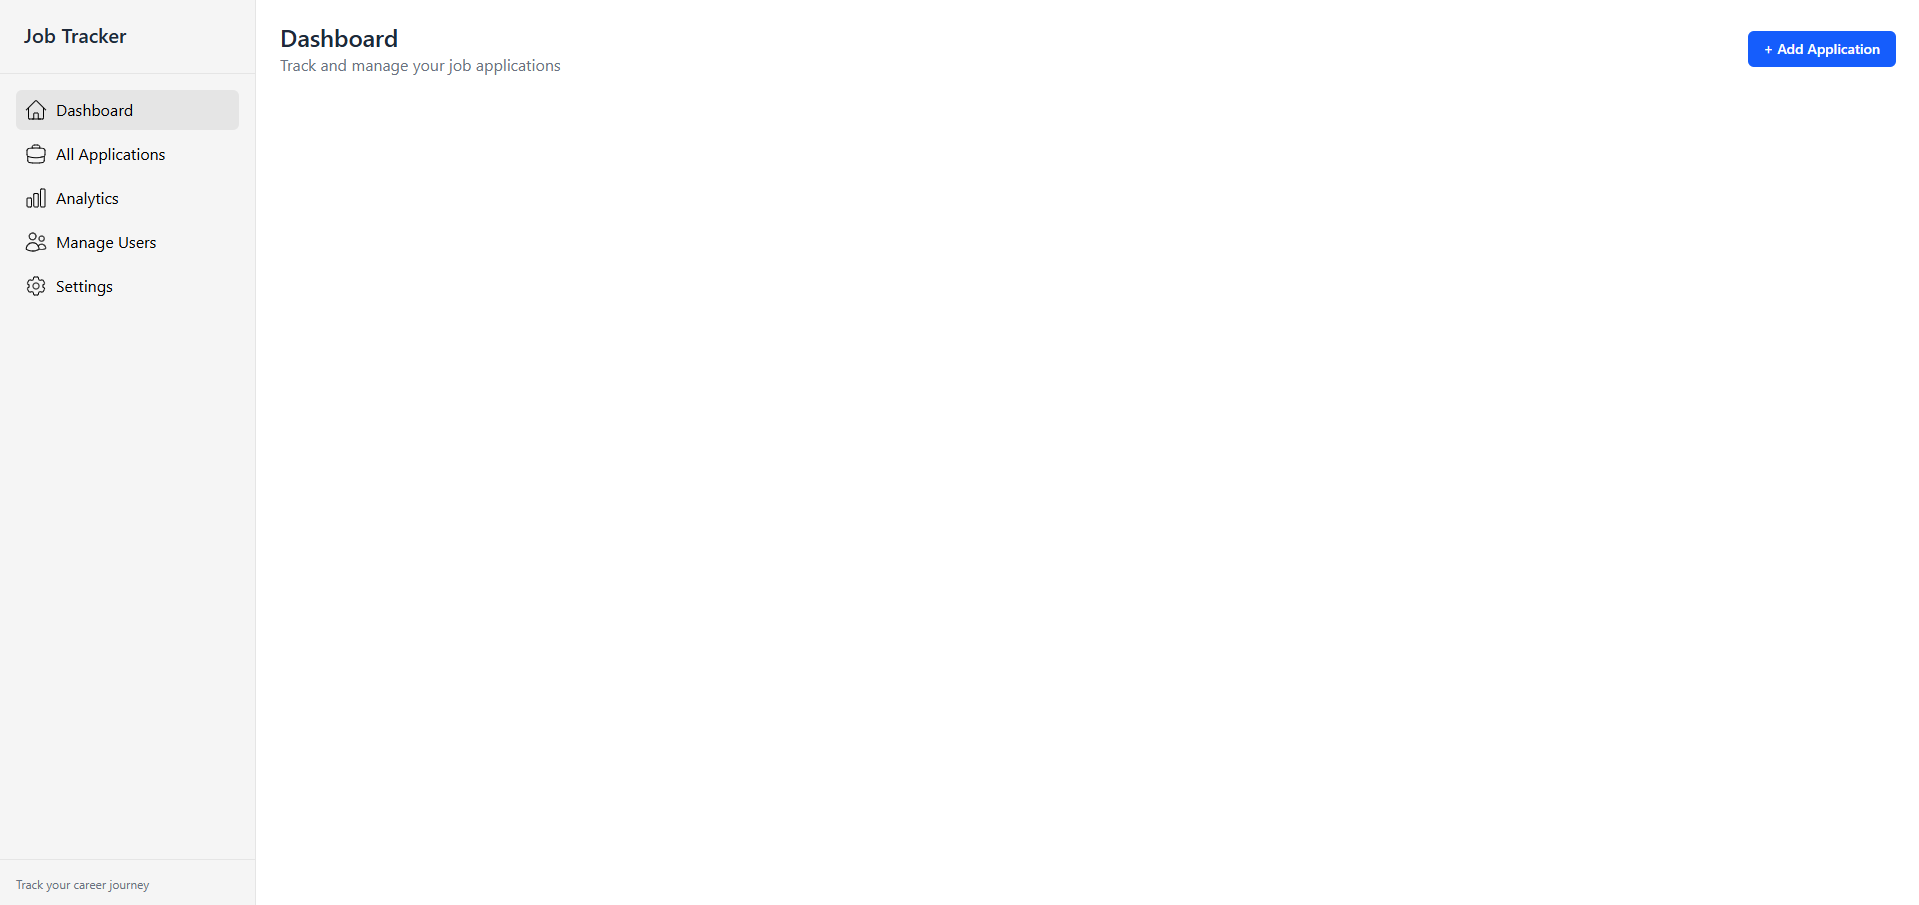
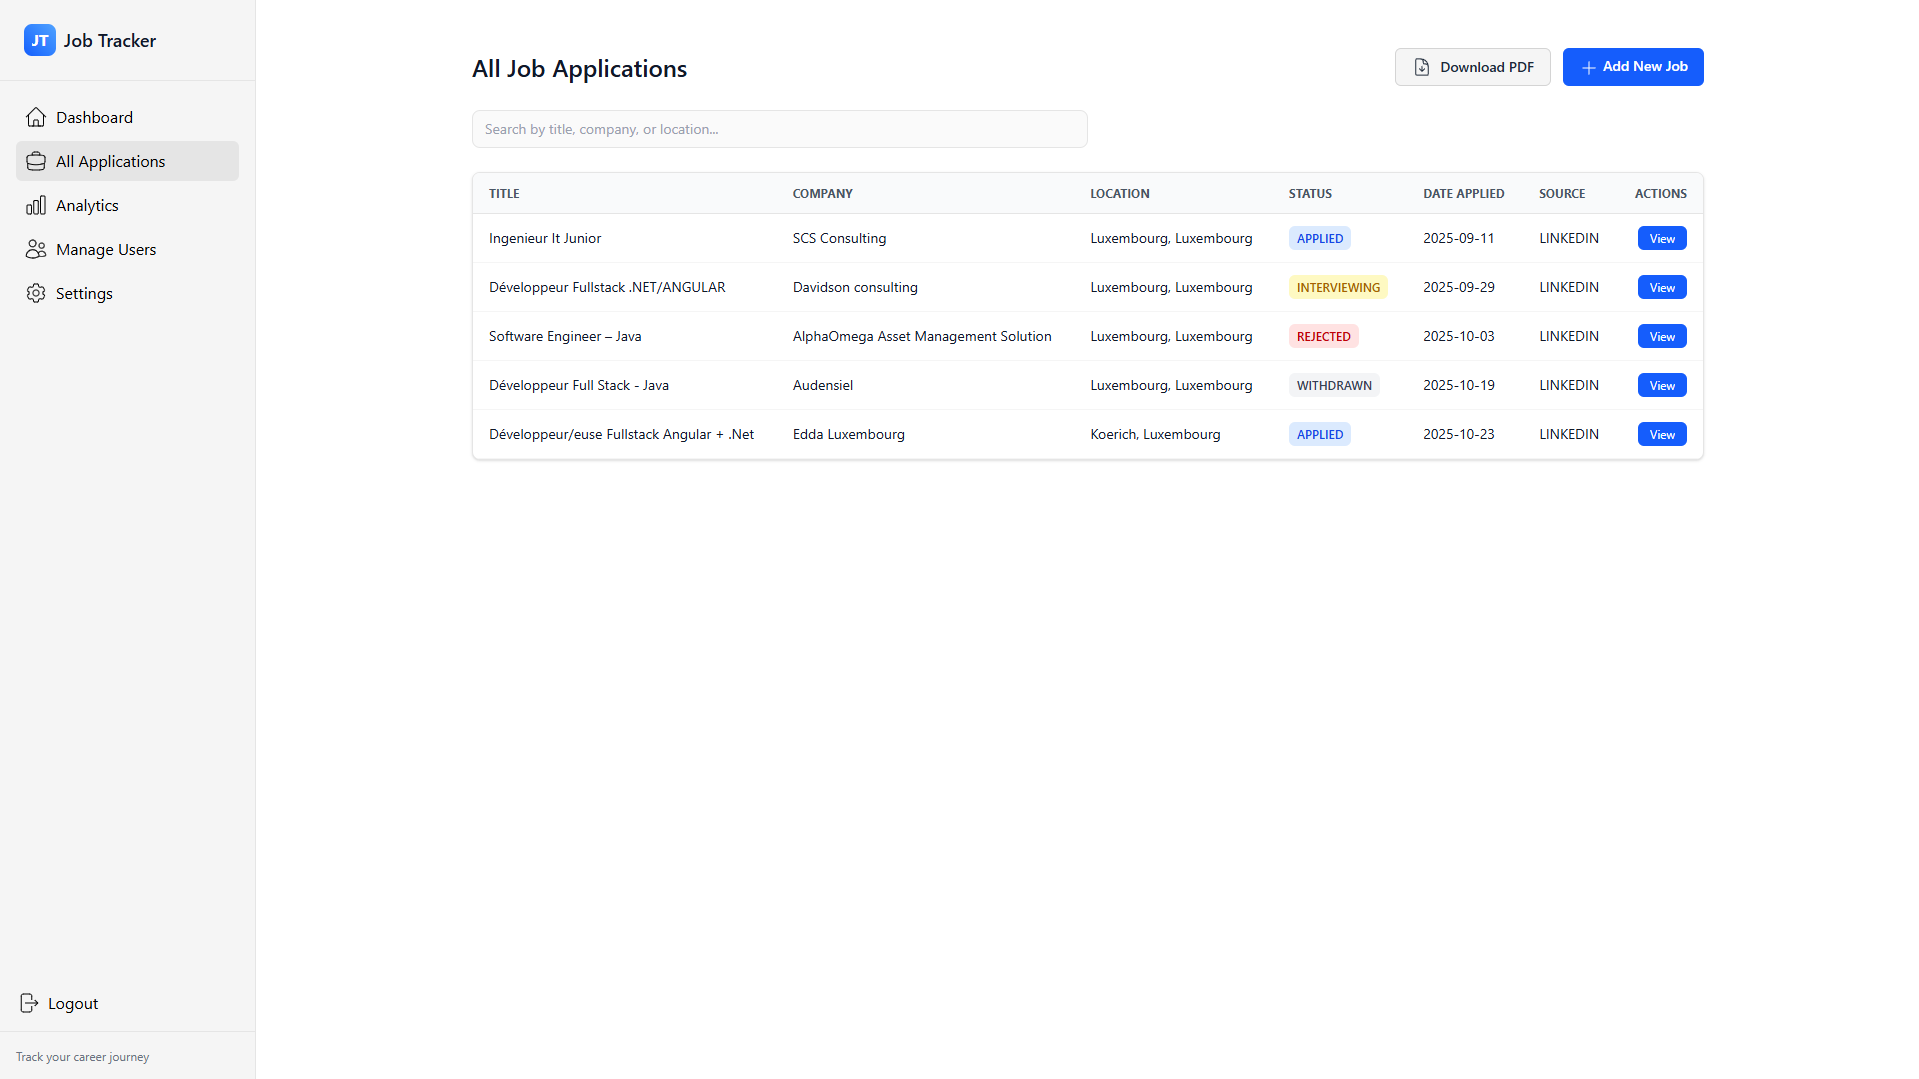
Enhance UI design for sidebar, homepage, and job list.

diff --git a/job-tracker-ui/src/app/features/public/pages/home/home.html b/job-tracker-ui/src/app/features/public/pages/home/home.html
@@ -1,93 +1,170 @@
 <!-- Navbar -->
-<header class="w-full py-4 px-6 flex justify-between items-center bg-white shadow-sm fixed top-0 left-0 z-50">
-  <div class="flex items-center gap-2">
-    <span class="text-lg font-semibold text-gray-900">Job Tracker</span>
-  </div>
+<header
+  class="fixed top-0 left-0 w-full backdrop-blur-md bg-white/70 border-b border-neutral-200 z-50"
+>
+  <div class="max-w-7xl mx-auto flex justify-between items-center py-4 px-6">
+    <div class="flex items-center gap-2">
+      <div
+        class="w-8 h-8 rounded-lg bg-gradient-to-tr from-blue-600 to-blue-400 flex items-center justify-center text-white font-bold"
+      >
+        JT
+      </div>
+      <span class="text-lg font-semibold text-gray-900">Job Tracker</span>
+    </div>
 
-  <button
-    [routerLink]="['/auth/login']"
-    class="px-4 py-2 bg-blue-600 text-white text-sm rounded-md hover:bg-blue-700 transition cursor-pointer"
-  >
-    Login / Signup
-  </button>
+    <button
+      [routerLink]="['/auth/login']"
+      class="px-4 py-2 bg-blue-600 text-white text-sm rounded-md shadow-sm hover:shadow-md hover:bg-blue-700 transition cursor-pointer"
+    >
+      Login / Signup
+    </button>
+  </div>
 </header>
 
 <!-- Hero Section -->
 <section
-  class="min-h-screen flex flex-col items-center justify-center text-center px-6 bg-gradient-to-b from-neutral-50 to-white pt-24"
+  class="min-h-screen flex flex-col items-center justify-center text-center px-6 relative overflow-hidden bg-gradient-to-br from-blue-50 via-white to-white pt-24"
 >
-  <div class="max-w-4xl">
-    <h1 class="text-4xl md:text-5xl font-bold mb-6 text-gray-900">
-      Simplify Your Job Search with <span class="text-blue-600">Job Tracker</span>
+  <!-- Animated background shapes -->
+  <div
+    class="absolute inset-0 -z-10 opacity-40 blur-3xl bg-[radial-gradient(circle_at_20%_20%,_rgba(37,99,235,0.3)_0%,_transparent_50%)]"
+  ></div>
+  <div
+    class="absolute inset-0 -z-10 opacity-30 blur-3xl bg-[radial-gradient(circle_at_80%_80%,_rgba(99,102,241,0.3)_0%,_transparent_50%)]"
+  ></div>
+
+  <div class="max-w-4xl fade-in-up">
+    <h1
+      class="text-5xl md:text-6xl font-bold mb-6 text-gray-900 leading-tight tracking-tight"
+    >
+      Streamline Your Job Search with
+      <span
+        class="bg-gradient-to-r from-blue-600 to-blue-400 bg-clip-text text-transparent"
+      >Job Tracker</span
+      >
     </h1>
-    <p class="text-gray-600 text-lg md:text-xl mb-8">
-      Keep all your job applications organized, track progress, and manage recruiter details — all in one easy-to-use
-      dashboard.
+    <p class="text-gray-600 text-lg md:text-xl mb-8 max-w-2xl mx-auto">
+      Manage your applications, monitor progress, and stay organized —
+      everything you need to land your next job in one clean dashboard.
     </p>
 
-    <button
-      [routerLink]="['/auth/signup']"
-      class="px-6 py-3 bg-blue-600 text-white text-lg rounded-lg shadow hover:bg-blue-700 transition cursor-pointer"
-    >
-      Get Started
-    </button>
+    <div class="flex flex-col sm:flex-row gap-4 justify-center">
+      <button
+        [routerLink]="['/auth/signup']"
+        class="px-8 py-3 bg-blue-600 text-white text-lg rounded-lg shadow hover:bg-blue-700 hover:scale-105 transition cursor-pointer"
+      >
+        Get Started
+      </button>
+
+      <button
+        [routerLink]="['/auth/login']"
+        class="px-8 py-3 bg-white border border-neutral-200 text-gray-800 text-lg rounded-lg shadow-sm hover:bg-neutral-50 hover:scale-105 transition cursor-pointer"
+      >
+        Log In
+      </button>
+    </div>
   </div>
 
-  <div class="mt-16 max-w-5xl mx-auto">
+  <div
+    class="mt-16 max-w-5xl mx-auto fade-in-up"
+    style="animation-delay: 0.3s"
+  >
     <img
       src="/images/placeholder.png"
       alt="Job Tracker Dashboard Preview"
-      class="rounded-2xl shadow-lg border border-neutral-200"
+      class="rounded-2xl shadow-2xl border border-neutral-200 hover:scale-[1.02] transition-transform duration-300"
     />
   </div>
 </section>
 
 <!-- Features Section -->
-<section class="py-20 bg-white text-center">
-  <h2 class="text-3xl font-semibold text-gray-800 mb-12">Why You'll Love Job Tracker</h2>
+<section class="py-24 bg-white text-center relative overflow-hidden">
+  <h2 class="text-4xl font-bold text-gray-900 mb-14 fade-in-up">
+    Why Professionals Choose <span class="text-blue-600">Job Tracker</span>
+  </h2>
 
   <div class="grid md:grid-cols-3 gap-10 max-w-6xl mx-auto px-6">
-    <div class="p-6 border rounded-xl hover:shadow-md transition">
-      <div class="text-blue-600 text-4xl mb-3">💼</div>
-      <h3 class="font-semibold text-xl mb-2">Track Every Application</h3>
+    <div
+      class="p-8 rounded-2xl border border-neutral-200 bg-white shadow-sm hover:shadow-lg transition-all duration-300 transform hover:-translate-y-2 fade-in-up"
+    >
+      <div class="text-blue-600 text-5xl mb-4">💼</div>
+      <h3 class="font-semibold text-xl mb-3">Track Every Application</h3>
       <p class="text-gray-600">
-        Add details like company name, recruiter contact, status, and salary — all neatly stored and easy to update.
+        Log company details, contacts, salary info, and status — everything in
+        one place with effortless editing.
       </p>
     </div>
 
-    <div class="p-6 border rounded-xl hover:shadow-md transition">
-      <div class="text-blue-600 text-4xl mb-3">📈</div>
-      <h3 class="font-semibold text-xl mb-2">Stay Organized & In Control</h3>
+    <div
+      class="p-8 rounded-2xl border border-neutral-200 bg-white shadow-sm hover:shadow-lg transition-all duration-300 transform hover:-translate-y-2 fade-in-up"
+      style="animation-delay: 0.2s"
+    >
+      <div class="text-blue-600 text-5xl mb-4">📊</div>
+      <h3 class="font-semibold text-xl mb-3">Visual Progress Insights</h3>
       <p class="text-gray-600">
-        Filter and manage applications by date, source, or status so you never miss an interview or follow-up.
+        Stay organized with status filters and performance summaries to see your
+        progress at a glance.
       </p>
     </div>
 
-    <div class="p-6 border rounded-xl hover:shadow-md transition">
-      <div class="text-blue-600 text-4xl mb-3">🔒</div>
-      <h3 class="font-semibold text-xl mb-2">Secure & Personalized</h3>
+    <div
+      class="p-8 rounded-2xl border border-neutral-200 bg-white shadow-sm hover:shadow-lg transition-all duration-300 transform hover:-translate-y-2 fade-in-up"
+      style="animation-delay: 0.4s"
+    >
+      <div class="text-blue-600 text-5xl mb-4">🔒</div>
+      <h3 class="font-semibold text-xl mb-3">Private & Secure</h3>
       <p class="text-gray-600">
-        Your data is safely stored with secure authentication and role-based access for users and admins.
+        Role-based authentication ensures your data stays private and accessible
+        only to you.
       </p>
     </div>
   </div>
 </section>
 
-<!-- Call to Action Section -->
-<section class="py-20 bg-blue-600 text-white text-center">
-  <h2 class="text-3xl font-semibold mb-4">Ready to Level Up Your Job Hunt?</h2>
-  <p class="text-blue-100 mb-8 text-lg">
-    Sign up today and start tracking your applications effortlessly.
+<!-- CTA Section -->
+<section
+  class="py-24 bg-gradient-to-r from-blue-600 to-blue-500 text-white text-center"
+>
+  <h2 class="text-4xl font-bold mb-4 fade-in-up">
+    Ready to Level Up Your Job Hunt?
+  </h2>
+  <p class="text-blue-100 mb-8 text-lg max-w-2xl mx-auto fade-in-up">
+    Sign up now and take control of your job applications with a clean,
+    modern dashboard built for efficiency.
   </p>
   <button
     [routerLink]="['/auth/signup']"
-    class="px-8 py-3 bg-white text-blue-600 font-medium rounded-lg shadow hover:bg-neutral-100 transition cursor-pointer"
+    class="px-10 py-3 bg-white text-blue-600 font-medium rounded-lg shadow-lg hover:bg-neutral-100 transition cursor-pointer hover:scale-105 fade-in-up"
+    style="animation-delay: 0.2s"
   >
-    Get Started for Free
+    Create My Account
   </button>
 </section>
 
 <!-- Footer -->
-<footer class="py-6 bg-neutral-50 text-center text-gray-500 text-sm">
+<footer class="py-8 bg-neutral-50 text-center text-gray-500 text-sm">
   © 2025 Ismail Jacoby
 </footer>
+
+<!-- Simple CSS animations -->
+<style>
+  @keyframes fadeInUp {
+    from {
+      opacity: 0;
+      transform: translateY(20px);
+    }
+    to {
+      opacity: 1;
+      transform: translateY(0);
+    }
+  }
+
+  .fade-in-up {
+    opacity: 0;
+    animation: fadeInUp 0.8s ease forwards;
+  }
+
+  .fade-in-up[style*="animation-delay"] {
+    animation-delay: inherit;
+  }
+</style>

diff --git a/job-tracker-ui/src/app/features/jobs/pages/job-list/job-list.html b/job-tracker-ui/src/app/features/jobs/pages/job-list/job-list.html
@@ -90,14 +90,9 @@
             <td class="px-4 py-3">{{ job.jobSource }}</td>
             <td class="px-4 py-3 text-right space-x-2">
               <button
-                class="px-3 py-1 text-xs rounded-md bg-neutral-100 hover:bg-neutral-200 transition cursor-pointer"
+                class="px-3 py-1 text-xs text-white rounded-md bg-blue-600 hover:bg-blue-700 transition cursor-pointer"
               >
                 View
-              </button>
-              <button
-                class="px-3 py-1 text-xs rounded-md bg-blue-600 text-white hover:bg-blue-700 transition cursor-pointer"
-              >
-                Edit
               </button>
             </td>
           </tr>

diff --git a/job-tracker-ui/src/app/shared/components/sidebar/sidebar.html b/job-tracker-ui/src/app/shared/components/sidebar/sidebar.html
@@ -3,7 +3,14 @@
 >
   <!-- Logo -->
   <div class="p-6 border-b border-neutral-200">
-    <h1 class="text-xl font-semibold text-gray-800">Job Tracker</h1>
+    <div class="flex items-center gap-2">
+      <div
+        class="w-8 h-8 rounded-lg bg-gradient-to-tr from-blue-600 to-blue-400 flex items-center justify-center text-white font-bold"
+      >
+        JT
+      </div>
+      <span class="text-lg font-semibold text-gray-900">Job Tracker</span>
+    </div>
   </div>
 
   <!-- Navigation -->
